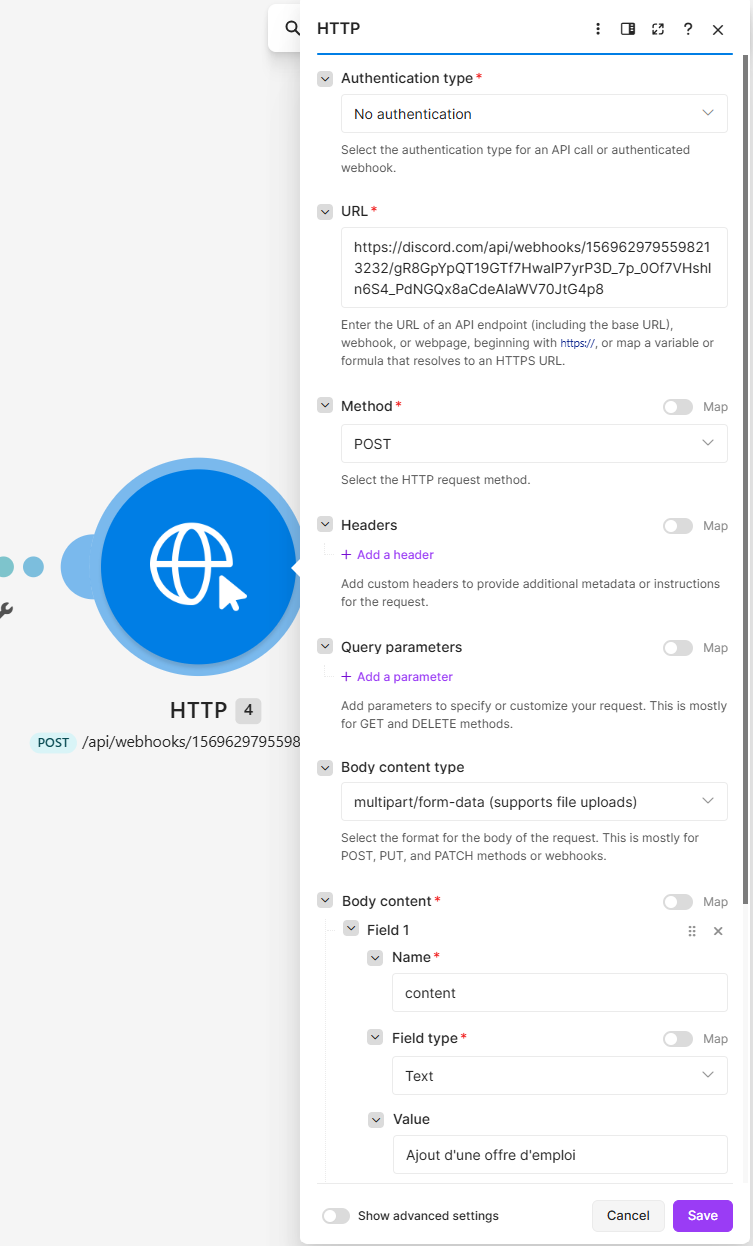
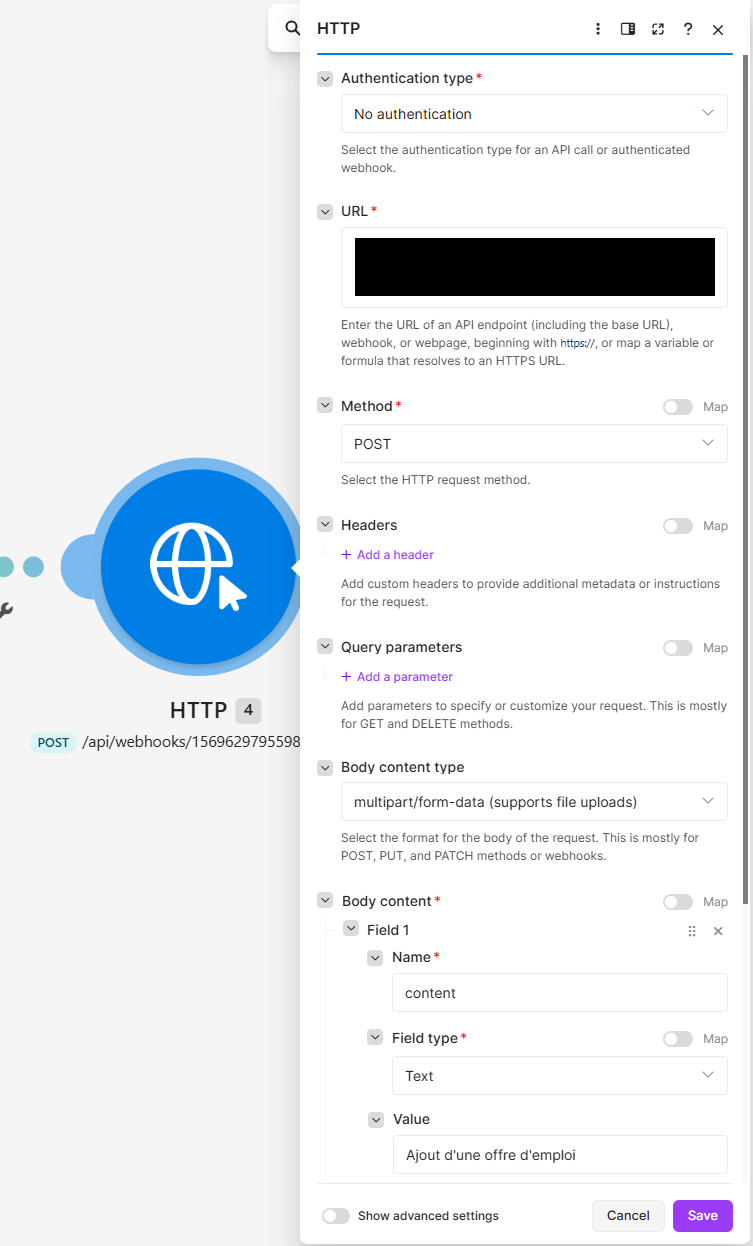
update all

Changed region(s): [[0.4582, 0.183, 0.9469, 0.244]]

diff --git a/README.md b/README.md
@@ -165,7 +165,7 @@ On vérifie la connexion :
 import requests
 
 headers = {
-  "X-API-Key": "ak_9ygvuvztvo0h7mqutzrh8uyu1zylsx0ziauv46o20xu1yft"
+  "X-API-Key": "ak_******"
 }
 
 response = requests.request(
